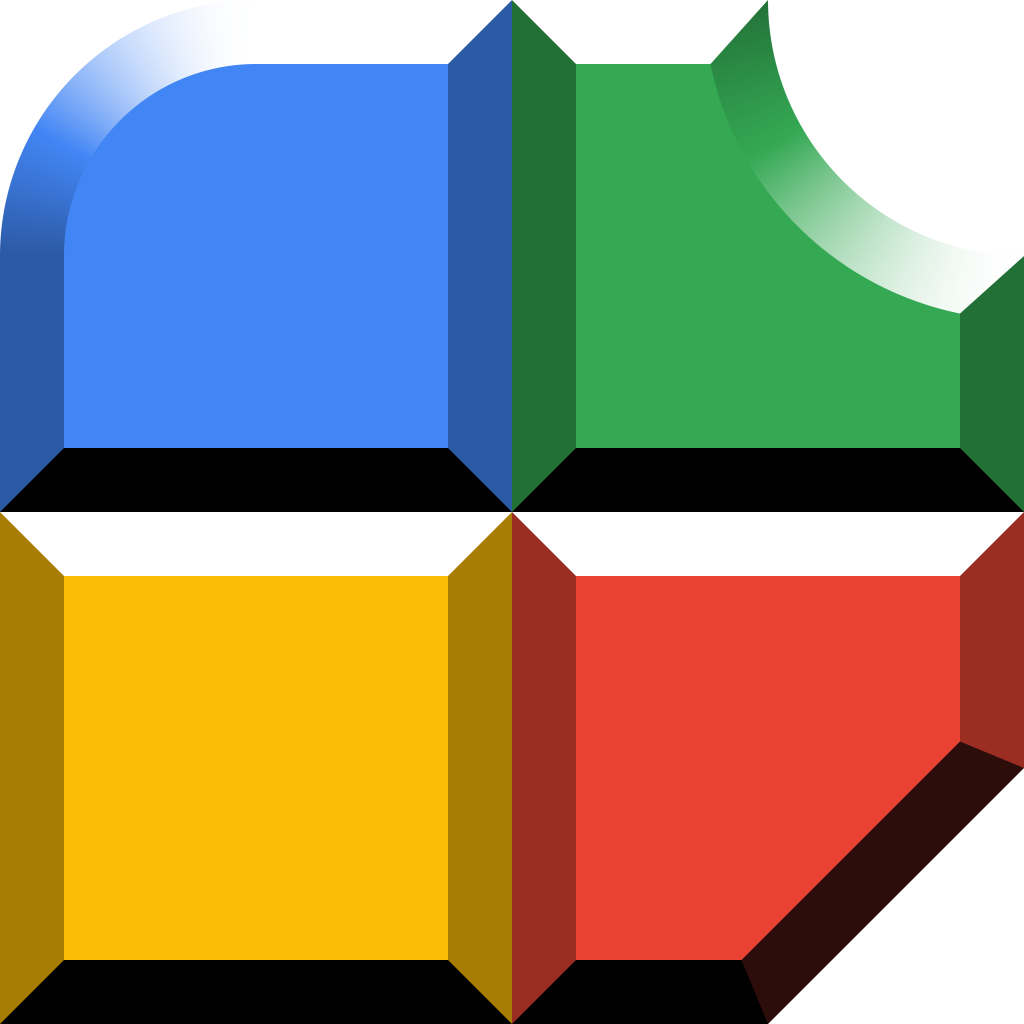
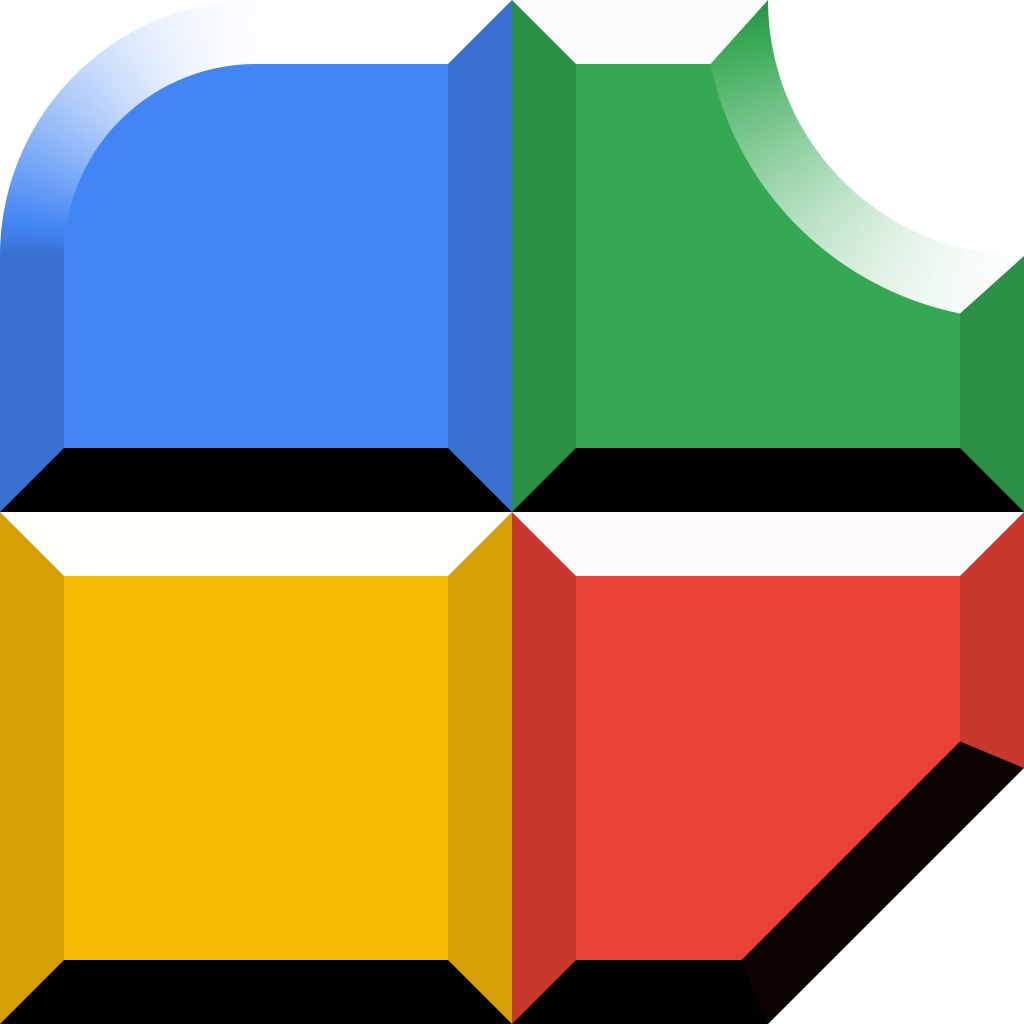
Support choosing the z-height of the light source for Lambert shading and update the pictures

diff --git a/src/svg_path_editor/path_shade.py b/src/svg_path_editor/path_shade.py
@@ -18,32 +18,65 @@ if TYPE_CHECKING:
     import numpy as np
 
 
-def lambert_from_angle(normal: Point) -> Decimal:
+def lambert_from_angle(
+    normal: Point,
+    *,
+    z_light: Number = 1,
+) -> Decimal:
     r"""
-    Lambertian diffuse intensity from a surface normal.
+    Lambertian diffuse intensity from a 2D surface normal.
 
-    The light direction is fixed to :math:`(0, -1, 1)` in world space.
-    The result is
+    The 2D normal is interpreted in the :math:`xy`-plane, with an implicit
+    :math:`z`-component 1:
 
     .. math::
 
-       I = \max(0, \hat{\mathbf{n}}\cdot\hat{\mathbf{L}}),
+       \mathbf{n} = (n_x, n_y, 1).
 
-    evaluated via the signed angle of ``normal`` in the :math:`xy`-plane.
+    The light position is
 
-    :param normal: Surface normal.
+    .. math::
+
+       \mathbf{L}_\text{pos} = (0, 1, z_{\text{light}}),
+
+    and the light direction is
+
+    .. math::
+
+       \hat{\mathbf{L}} = \frac{\mathbf{L}_\text{pos}}{\|\mathbf{L}_\text{pos}\|}.
+
+    The Lambert intensity is
+
+    .. math::
+
+       I = \max(0, \hat{\mathbf{n}} \cdot \hat{\mathbf{L}}),
+
+    where :math:`\hat{\mathbf{n}}` is the normalized surface normal.
+
+    :param normal: 2D surface normal in the :math:`xy`-plane.
+    :param z_light: :math:`z` height of the light source.
     :return: Lambertian intensity in :math:`[0, 1]`.
     """
     import sympy as sp
 
-    # I(theta) = max(0, (1 - sin(theta)) / 2)
-    sinv = rat_to_dec(sp.sin(sp.atan2(dec_to_rat(-normal.y), dec_to_rat(normal.x))))
-    return max(Decimal(0), (1 - sinv) / 2)
+    # 3D normal n = (nx, ny, 1); only direction matters
+    nx, ny, nz = dec_to_rat(normal.x), dec_to_rat(normal.y), sp.S.One
+    nlen = sp.sqrt(nx * nx + ny * ny + nz * nz)
+    if nlen == 0:
+        return Decimal(0)
+    nxn, nyn, nzn = nx / nlen, ny / nlen, nz / nlen
+
+    # Light position L_pos = (0, 1, z_light)
+    lx_sp, ly_sp, lz_sp = sp.S.Zero, sp.S.One, dec_to_rat(Decimal(z_light))
+    llen = sp.sqrt(lx_sp * lx_sp + ly_sp * ly_sp + lz_sp * lz_sp)
+    lx_sp, ly_sp, lz_sp = lx_sp / llen, ly_sp / llen, lz_sp / llen
+
+    return max(Decimal(0), rat_to_dec(nxn * lx_sp + nyn * ly_sp + nzn * lz_sp))
 
 
 class ImageFormat(Protocol):
     """
-    Abstract image encoder.
+    Abstract RGBA image encoder.
 
     :ivar media_type: MIME type of the encoded image.
     :ivar extension: File extension (without dot).
@@ -66,7 +99,7 @@ class WebpFormat:
     """
     Lossless WebP encoder.
 
-    Uses :func:`imagecodecs.webp_encode` with ``lossless=True``.
+    Uses :func:`imagecodecs.webp_encode(lossless=True)`.
     """
 
     media_type: ClassVar[str] = "image/webp"
@@ -82,7 +115,7 @@ class PngFormat:
     """
     PNG encoder.
 
-    Uses :func:`imagecodecs.png_encode` with ``level=9``.
+    Uses :func:`imagecodecs.png_encode(level=9)`.
     """
 
     media_type: ClassVar[str] = "image/png"
@@ -104,12 +137,13 @@ def lambert_shading_base64(
     phi: Decimal,
     locally_convex: bool,
     resolution: float,
-    t: float = 0.25,
+    t: float = 0.5,
+    z_light: float = 1.0,
     format: ImageFormat = WEBP,
     seed: int | None = None,
 ) -> tuple[bytes, str]:
     r"""
-    Render a Lambert–shaded elliptical cone, return encoded bytes and base64 URI.
+    Render a Lambert–shaded elliptical cone; return encoded bytes and base64 URI.
 
     The cone radii are :math:`r = (r_x, r_y)` in image space. For a point
     :math:`(x, y)` on the grid
@@ -131,12 +165,12 @@ def lambert_shading_base64(
 
        I(x, y) = \max\left(0, \hat{\mathbf{n}}(x, y)\cdot\hat{\mathbf{L}}\right),
 
-    where :math:`\hat{\mathbf{L}}` is the unit vector from :math:`(0, s, 1)`,
-    with :math:`s = -1` if ``locally_convex`` else :math:`+1`, rotated in the
-    :math:`xy`-plane by :math:`-\varphi` degrees.
+    where :math:`\hat{\mathbf{L}}` is the unit vector from the light position
+    :math:`(0, s, z_{\text{light}})` with :math:`s = -1` if ``locally_convex``
+    else :math:`+1`, rotated in the :math:`xy`-plane by :math:`-\varphi` degrees.
 
-    Grayscale is binary (0 or 255) according to :math:`I > t`. Alpha is a
-    symmetric remap of :math:`I` around :math:`t`:
+    Grayscale is binary (0 or 255) according to :math:`I > t`. Alpha is a symmetric
+    remap of :math:`I` around :math:`t`:
 
     .. math::
 
@@ -155,16 +189,16 @@ def lambert_shading_base64(
     :param r: Ellipse radii in :math:`x` and :math:`y`.
     :param phi: Rotation in degrees of the light direction in image space
         (clockwise in screen coordinates).
-    :param locally_convex: If true, the base light direction is :math:`(0, -1, 1)`,
-        otherwise :math:`(0, 1, 1)`.
+    :param locally_convex: If true, the base light position is
+        :math:`(0, -1, z_{\text{light}})`, otherwise :math:`(0, 1, z_{\text{light}})`.
     :param resolution: Pixels per SVG unit. Image size is
         :math:`\lceil 2 r_x \, \mathrm{resolution} \rceil
         \times \lceil 2 r_y \, \mathrm{resolution} \rceil`.
     :param t: Neutral Lambert intensity in :math:`[0, 1]` (threshold).
+    :param z_light: :math:`z` height of the light source.
     :param format: Image format to use.
     :param seed: RNG seed for alpha dithering; ``None`` is non-deterministic.
-    :return: ``(img_bytes, img_data_uri)`` with ``img_data_uri`` suitable
-        for SVG ``href``.
+    :return: ``(img_bytes, img_data_uri)``; the URI is suitable for SVG ``href``.
     """
     import base64
     import math
@@ -180,16 +214,19 @@ def lambert_shading_base64(
     y = np.linspace(-1 / ry, 1 / ry, ny, dtype=np.float64)
     x, y = np.meshgrid(x, y, indexing="xy")
 
-    # Unnormalized normals; z-component is constant 1
+    # Surface normal in xy; z-component is 1
     nxy: npt.NDArray[np.float64] = np.hypot(x, y)
-    nx, ny, nz = x / nxy, y / nxy, 1.0
+    # Avoid division by zero at the center: treat nxy == 0 as (0, 0, 1)
+    nxy_safe = np.where(nxy == 0, 1.0, nxy)
+    nx, ny, nz = x / nxy_safe, y / nxy_safe, 1.0
 
     # Normalize the normals
     inv_norm = 1.0 / np.sqrt(nx * nx + ny * ny + nz * nz)
     nxn, nyn, nzn = nx * inv_norm, ny * inv_norm, nz * inv_norm
 
-    # Light direction: base (0, ±1, 1), then rotate by -phi around z
-    lx, ly, lz = 0.0, (-1.0 if locally_convex else 1.0), 1.0
+    # Light direction: from (0, ±1, z_light), then rotated by -phi around z
+    lx, ly, lz = 0.0, (-1.0 if locally_convex else 1.0), float(z_light)
+
     phi_rad = -math.radians(float(phi))
     sin_phi, cos_phi = math.sin(phi_rad), math.cos(phi_rad)
     lx, ly = cos_phi * lx - sin_phi * ly, sin_phi * lx + cos_phi * ly
@@ -207,7 +244,7 @@ def lambert_shading_base64(
     alpha[mask] = (alpha[mask] - t) / (1.0 - t)
     alpha[~mask] = (t - alpha[~mask]) / t
 
-    # Quantize alpha to 8-bit with small dithering noise
+    # Quantize alpha to 8-bit with dithering
     w = np.iinfo(np.uint8).max
     noise = np.random.default_rng(seed).uniform(0.0, 1.0, size=alpha.shape)
     alpha = (alpha * w + noise).clip(0, w).astype(np.uint8)
@@ -240,7 +277,8 @@ def shade_path(
     svg: SvgPath,
     *,
     d: Number,
-    threshold: Number,
+    threshold: Number = 0.5,
+    z_light: Number,
     resolution: float,
     max_opacity: Number = 1,
     format: ImageFormat = WEBP,
@@ -253,10 +291,13 @@ def shade_path(
     Per-bevel Lambert shading for an SVG path.
 
     The path is decomposed into bevel regions via
-    :func:`svg_path_editor.path_offset.bevel_path`. Flat bevel polygons are
-    shaded analytically with :func:`lambert_from_angle`. Curved bevel arcs use
-    a small Lambert RGBA texture from :func:`lambert_shading_base64`, referenced
-    by ``<image>`` / ``<use>`` and clipped to the arc geometry.
+    :func:`svg_path_editor.path_offset.bevel_path`.
+
+    * Flat bevel polygons are shaded analytically with
+      :func:`lambert_from_angle`.
+    * Curved bevel arcs are shaded using a small Lambert RGBA texture from
+      :func:`lambert_shading_base64`, referenced by ``<image>`` / ``<use>``
+      and clipped to the arc geometry.
 
     For each bevel polygon:
 
@@ -285,22 +326,26 @@ def shade_path(
     :param d: Offset distance for :func:`bevel_path`.
     :param threshold: Neutral Lambert intensity in :math:`[0, 1]`, shared
         between flat bevels and textures.
-    :param resolution: Pixels per SVG unit for generated textures; image
-        dimensions follow :func:`lambert_shading_base64`.
+    :param z_light: :math:`z` height of the light source.
+    :param resolution: Pixels per SVG unit for generated textures.
     :param max_opacity: Global opacity scale in :math:`[0, 1]`.
     :param format: Texture format, e.g. :data:`WEBP` or :data:`PNG`.
+    :param shade_offset: Starting index for generated shade IDs.
+    :param clip_offset: Starting index for generated clip-path IDs.
     :param seed: RNG seed for alpha dithering in :func:`lambert_shading_base64`;
         ``None`` for non-deterministic.
     :param prec: Precision/geometry mode passed to :func:`bevel_path`.
         ``"auto"`` and ``"auto-intersections"`` select automatic strategies;
         ``None`` uses the default.
+    :return: :class:`PathShading` with SVG fragments for defs and body.
     """
     threshold = Decimal(threshold)
+    z_light = Decimal(z_light)
     max_opacity = Decimal(max_opacity)
 
     bevels = bevel_path(svg, d=d, prec=prec)
 
-    # Cache for unique images: key -> (image_id, base64)
+    # Cache for unique images: key → (image_id, base64)
     shade_cache: dict[tuple[Decimal, Decimal, Decimal, bool], tuple[str, str]] = {}
     shade_ctr = shade_offset
 
@@ -311,13 +356,13 @@ def shade_path(
     for b in bevels:
         match b:
             case BevelPolygon(outward_normal=normal, path=path):
-                intensity = lambert_from_angle(normal)
+                intensity = lambert_from_angle(normal, z_light=z_light)
                 fill = "white" if intensity >= threshold else "black"
-                opacity = (
-                    (intensity - threshold) / (1 - threshold)
-                    if intensity >= threshold
-                    else (threshold - intensity) / threshold
-                ) * max_opacity
+                if intensity >= threshold:
+                    opacity = (intensity - threshold) / (1 - threshold)
+                else:
+                    opacity = (threshold - intensity) / threshold
+                opacity *= max_opacity
                 body.append(f'<path fill="{fill}" opacity="{opacity:.3g}" d="{path}"/>')
 
             case BevelArced(
@@ -338,6 +383,7 @@ def shade_path(
                         locally_convex=locally_convex,
                         resolution=resolution,
                         t=float(threshold),
+                        z_light=float(z_light),
                         format=format,
                         seed=seed,
                     )
@@ -346,7 +392,7 @@ def shade_path(
 
                     shade_cache[shade_key] = (shade_id, base64)
 
-                    # Base <image> in <defs> at (0, 0) with size 2 r.x × 2 r.y.
+                    # Base <image> in <defs> at (0, 0) with size 2 r.x × 2 r.y
                     defs_body.append(
                         f'<image id="{shade_id}" '
                         + f'width="{d2s(dims.x)}" height="{d2s(dims.y)}" '

diff --git a/docs/pics/generate.py b/docs/pics/generate.py
@@ -4,6 +4,7 @@
 # License, v. 2.0. If a copy of the MPL was not distributed with this
 # file, You can obtain one at https://mozilla.org/MPL/2.0/.
 
+from fractions import Fraction
 from pathlib import Path
 from shutil import which
 from subprocess import run
@@ -100,13 +101,13 @@ handle_svg(
         ],
         (-1, -1, 10, 10),
     ),
-    size_units=11,
+    size_units=10,
 )
 for suffix, path in (("src", base_svg), ("inw", offset_in), ("out", offset_out)):
     handle_svg(
         base / f"offset_{suffix}.svg",
         make_svg([make_path(path)], (-1, -1, 10, 10)),
-        size_units=11,
+        size_units=10,
     )
 
 
@@ -124,7 +125,7 @@ bevel_colors = [
 handle_svg(
     base / "bevel_src.svg",
     make_svg([make_path(base_svg)], (-1, -1, 10, 10)),
-    size_units=11,
+    size_units=10,
 )
 
 for d, suffix in ((1, "inw"), (-1, "out")):
@@ -147,7 +148,7 @@ for d, suffix in ((1, "inw"), (-1, "out")):
             ],
             (-1, -1, 10, 10),
         ),
-        size_units=11,
+        size_units=10,
     )
 
 # Bevel with Lambert shading
@@ -164,7 +165,7 @@ handle_svg(
     size_units=8,
 )
 
-for threshold_num in (1, 3):
+for z_light in (Fraction(1, 2), Fraction(3, 4), Fraction(2, 1), Fraction(5, 4)):
     defs: list[str] = []
     body_paths: list[str] = []
 
@@ -173,7 +174,7 @@ for threshold_num in (1, 3):
         shading = shade_path(
             p,
             d=0.5,
-            threshold=threshold_num / 4,
+            z_light=float(z_light),
             resolution=32,
             shade_offset=len(defs),
             clip_offset=len(defs),
@@ -182,8 +183,10 @@ for threshold_num in (1, 3):
         defs.extend(shading.defs_body)
         body_paths.extend(shading.body)
 
+    n, d = z_light.numerator, z_light.denominator
+    z_str = f"{n}_{d}" if d != 1 else str(n)
     handle_svg(
-        base / f"lambert_{threshold_num}_4.svg",
+        base / f"lambert_{z_str}.svg",
         make_svg([f"<defs>{''.join(defs)}</defs>", *body_paths], (0, 0, 8, 8)),
         size_units=8,
     )
